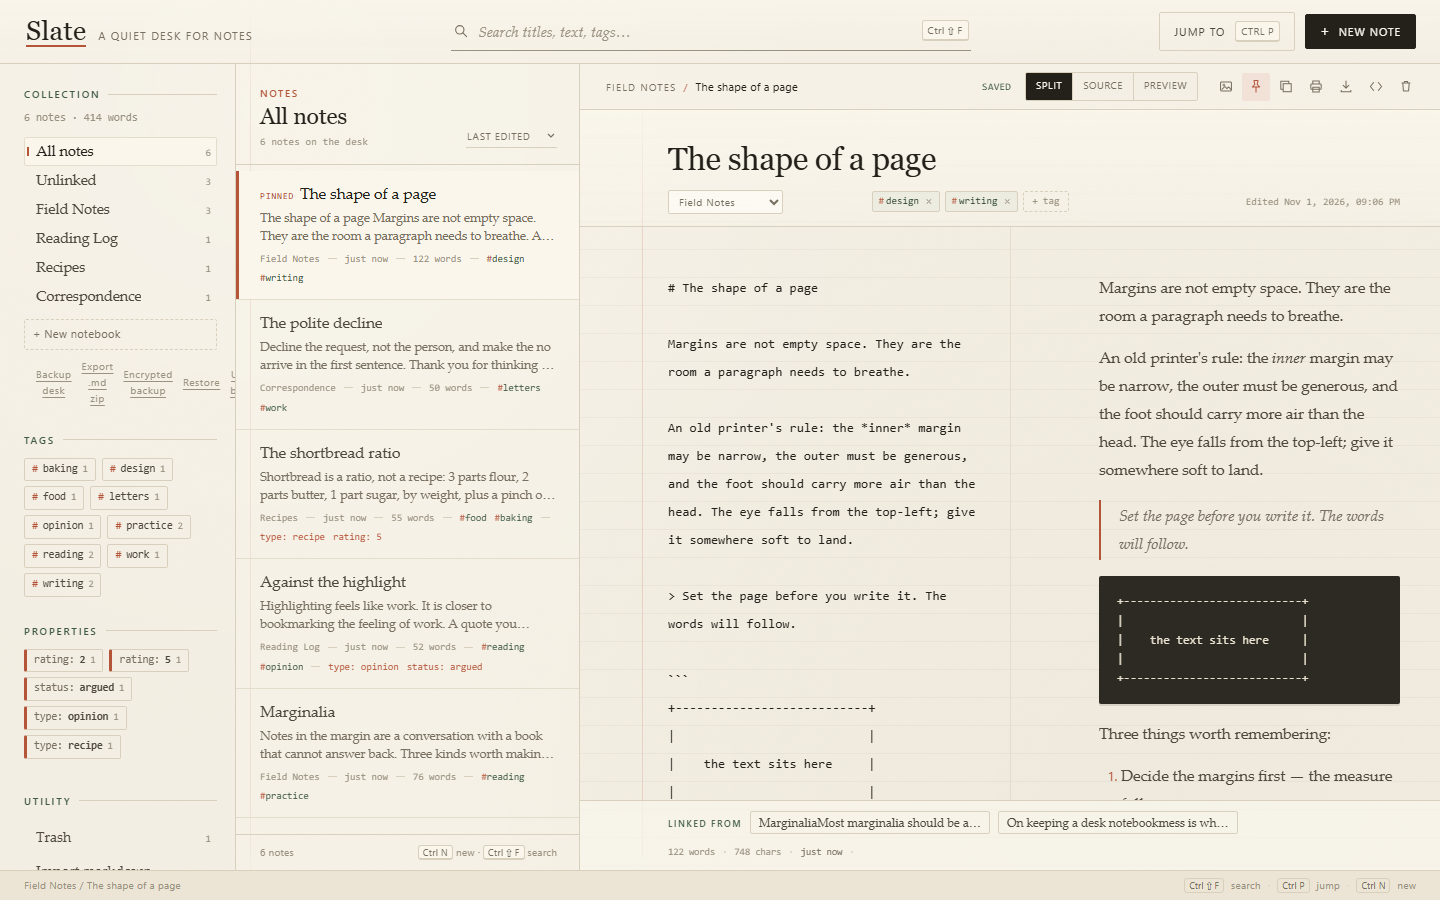
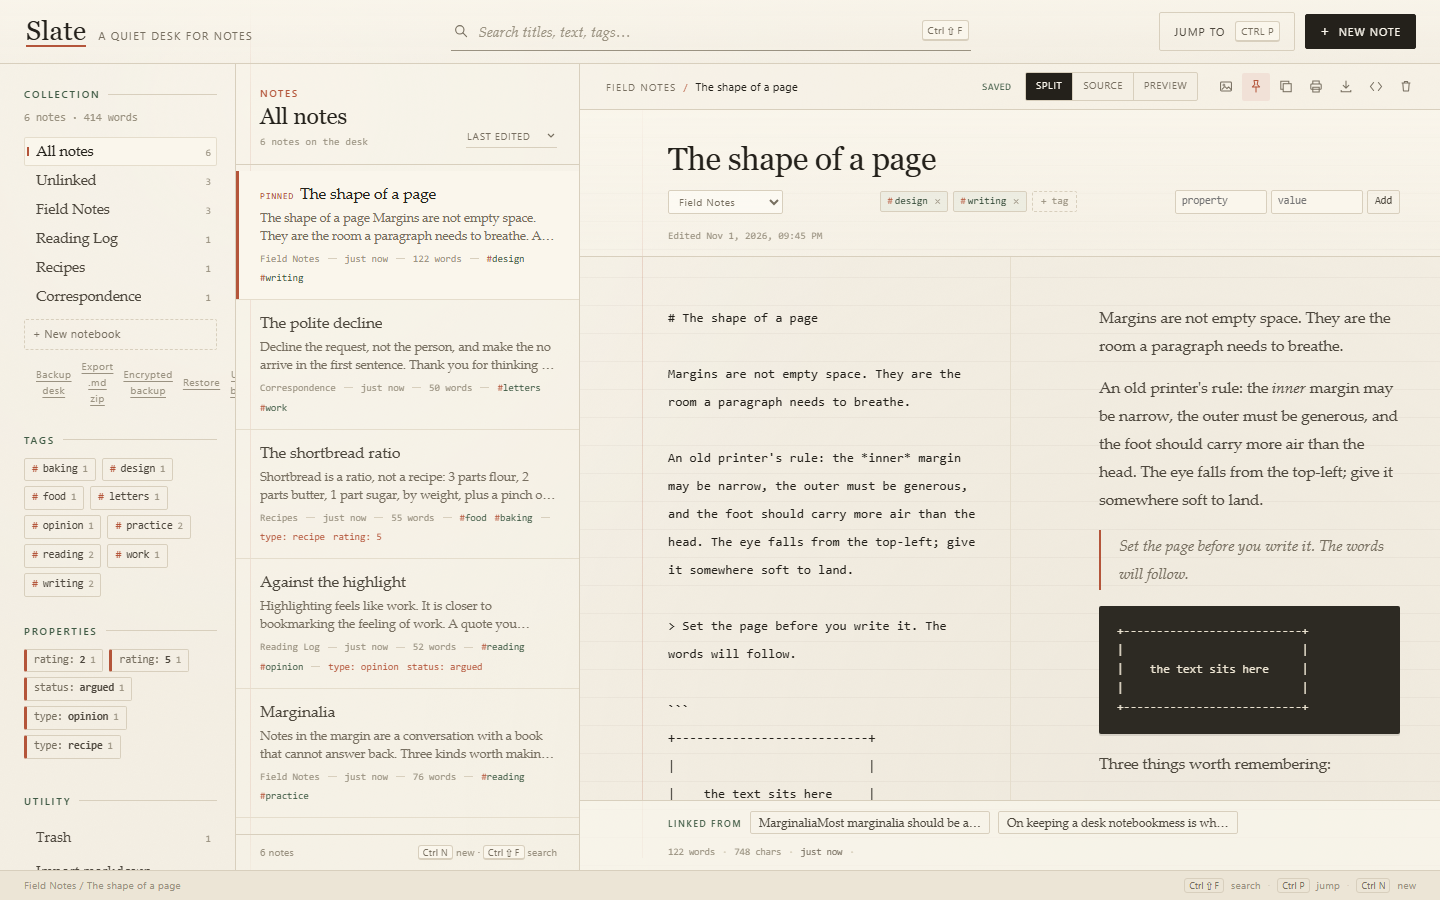
Storefront 1.18.0: the property editor

diff --git a/README.md b/README.md
@@ -17,7 +17,7 @@ A private markdown notebook with wiki links, backlinks and full-text search.
 
 </div>
 
-> **New — 1.17.0** — properties - a --- block at the top of a note becomes a filterable property.
+> **New — 1.18.0** — properties - add or remove one under the title, no frontmatter typing needed.
 > [Changelog →](CHANGELOG.md)
 
 ---
@@ -40,7 +40,7 @@ A private markdown notebook with wiki links, backlinks and full-text search.
 | **Backlinks** | Every note shows who links here, plus plain-text mentions of its title that were never bracketed — each with an excerpt and a jump. |
 | **Search** | Full-text search with highlighted results and keyboard focus. |
 | **Tags** | Hierarchical tags: #project/phase nests under #project, a parent filter shows its children and renaming a parent renames the whole branch. Suggestions, click-to-filter and rename/merge from the rail still apply. |
-| **Properties** | Write a --- block at the top of a note and Slate reads it: scalars, numbers, booleans, [inline] and - block lists. Properties collect in the rail, filter the desk, badge every card and answer a key:value search. |
+| **Properties** | Add or remove a property from under the note title — Slate writes the --- block for you, or a plain note gains one. Scalars, numbers, booleans, [inline] and - block lists parse back the same way, collect in the rail, filter the desk, badge every card and answer a key:value search. |
 | **Images** | Insert, paste or drop PNG/JPEG/WebP pictures; stored locally with the note. |
 | **Trash** | Trash, restore and permanent delete with a safeguard against skipping the trash. |
 | **Export/import** | Export a note as .md or HTML, a notebook as JSON, the whole desk as a ZIP of markdown files, or a passphrase-encrypted desk backup; import markdown and unlock encrypted archives. |
@@ -59,7 +59,7 @@ A private markdown notebook with wiki links, backlinks and full-text search.
 
 ## Install
 
-1. Download **Slate-1.17.0-win32-x64.zip** from [Releases](https://github.com/KHHH2312/slate/releases/latest).
+1. Download **Slate-1.18.0-win32-x64.zip** from [Releases](https://github.com/KHHH2312/slate/releases/latest).
 2. Verify it against `SHA256SUMS.txt`:
    ```powershell
    Get-FileHash .\Slate-*-win32-x64.zip -Algorithm SHA256
@@ -81,8 +81,8 @@ A private markdown notebook with wiki links, backlinks and full-text search.
 
 ## Verified
 
-- Model/API suite: 147 checks green.
-- Browser golden proof: 68 checks green, including the property rail, key:value search, frontmatter parsed live while typing and hierarchical tag nesting in the rail.
+- Model/API suite: 161 checks green.
+- Browser golden proof: 75 checks green, including writing a property from the panel, the rail picking it up, removing it again, key:value search and live frontmatter parsing.
 - Packaged app passes the source-parity integrity gate and ships with SHA-256 sums and a per-file manifest.
 
 ## Security and privacy
